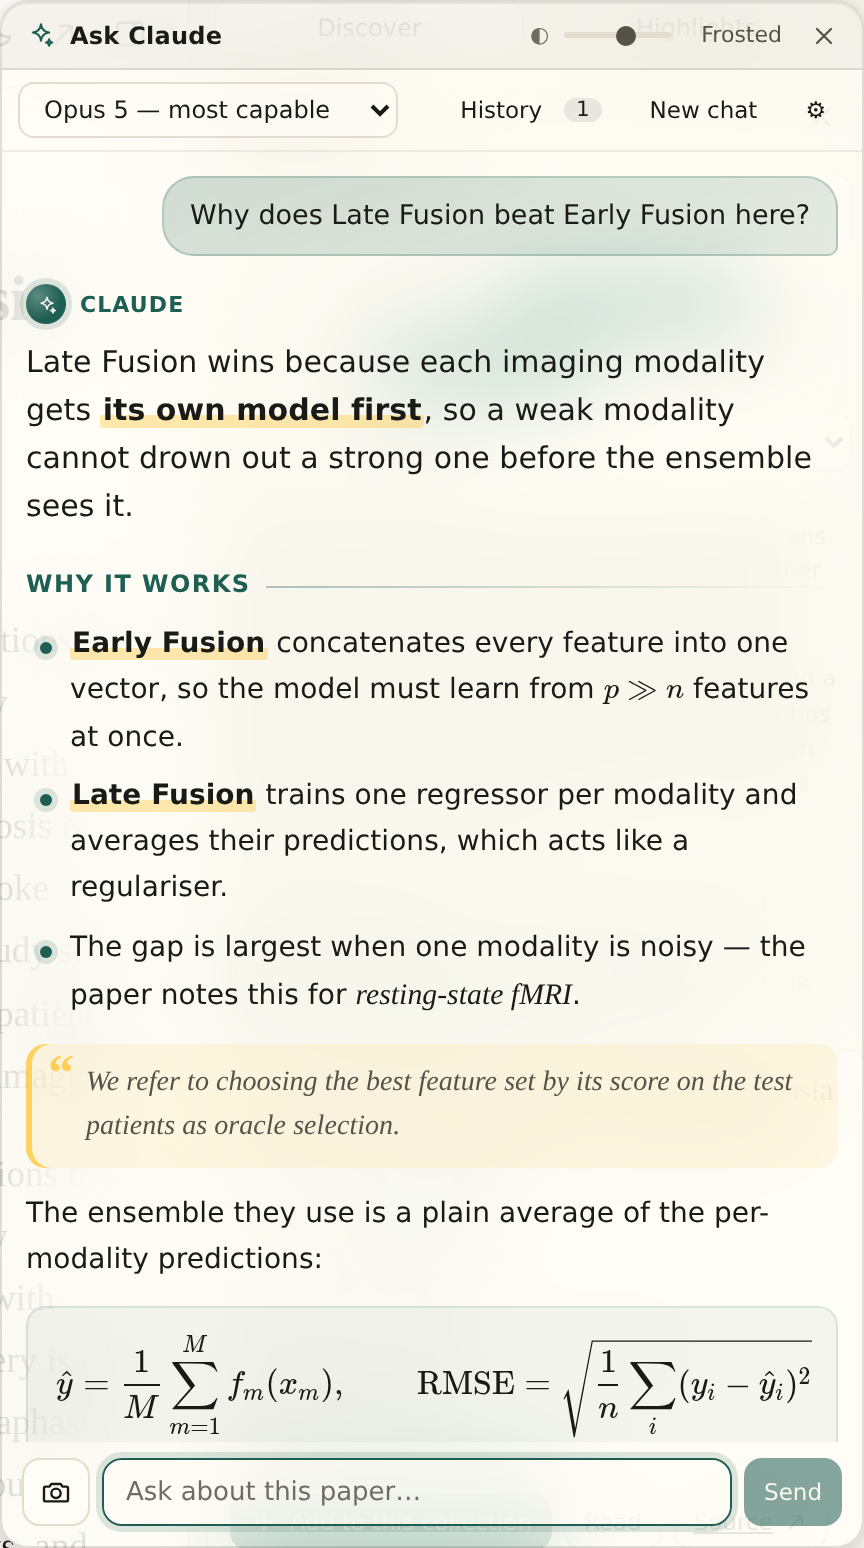
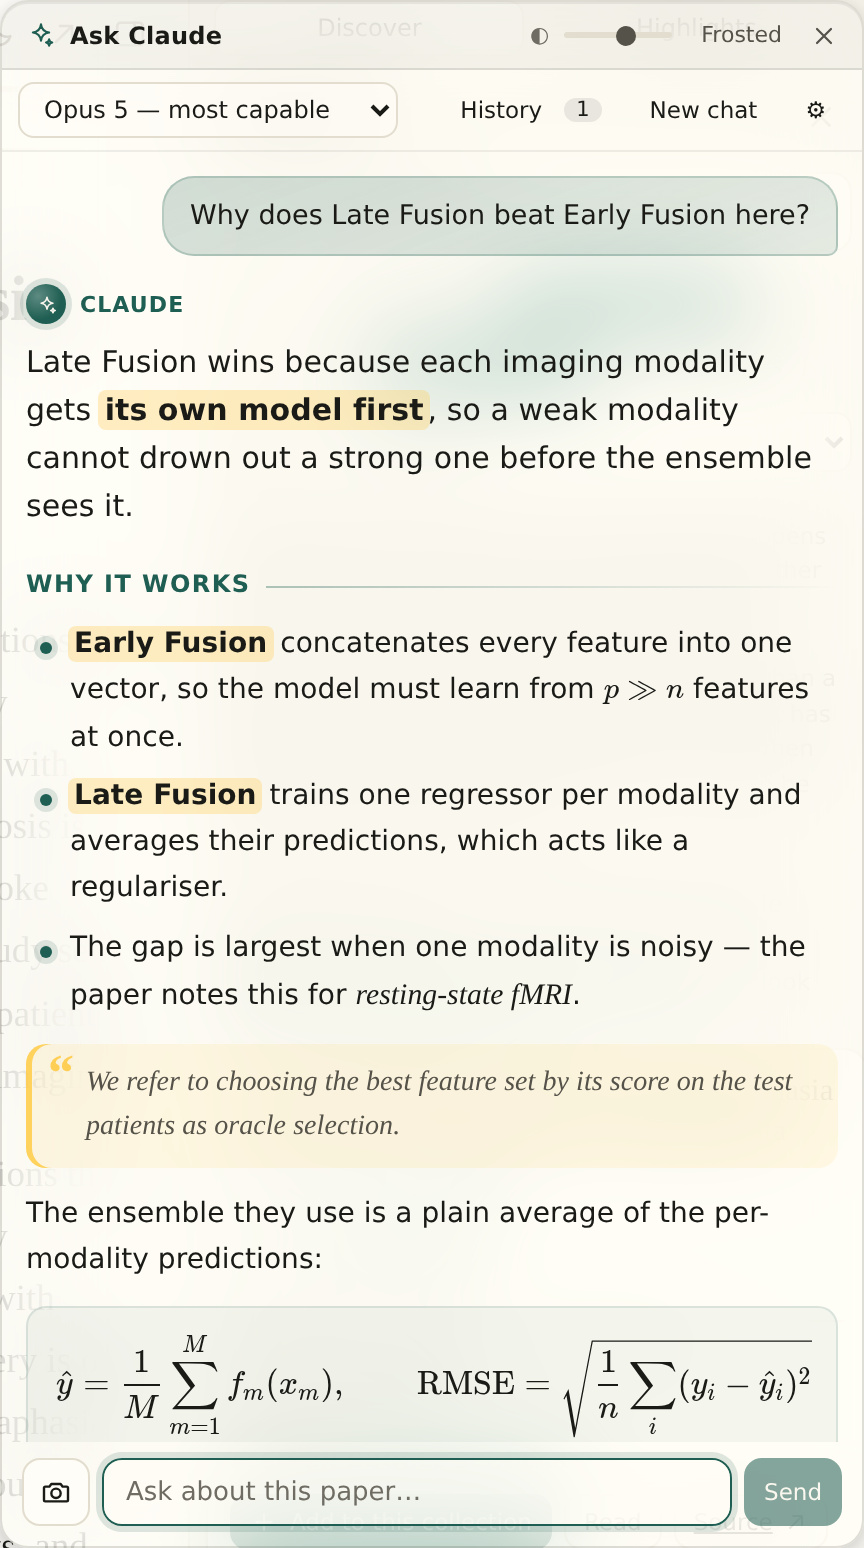
Ask Claude: mark bold and passage links in full, and let a link wrap
The marker on bold text and on links to passages covered only the lower
part of the letters, which read as a highlight that had stopped half way.
It is now the full height of the line, like the mark on the page, broken
cleanly across lines (box-decoration-break: clone).

A link to a passage was a <button>, which a browser never breaks across
lines: a long phrase dropped to a line of its own and left the line before
it short. It is now an <a href="#passage-N">, marked rather than underlined,
and flows with the text. locate-smoke checks that it starts on the line of
the words before it.

Claude-Session: https://claude.ai/code/session_01JRvxerTSNWCdTXjyRBgBbC

Changed region(s): [[0.0625, 0.4961, 0.9375, 0.5271], [0.0625, 0.4031, 0.9062, 0.4341], [0.0938, 0.2481, 0.8438, 0.2791]]

diff --git a/src/styles.css b/src/styles.css
@@ -2931,18 +2931,20 @@ body.win-moving .assistant-win { transition: none; }
 :root { --mark: 255 203 71; }
 :root[data-theme='dark'] { --mark: 246 214 102; }
 .chat-passage {
-  display: inline; padding: 0 2px; margin: 0; border: 0; border-radius: 3px; cursor: pointer;
-  font: inherit; color: inherit; text-align: inherit;
-  background: linear-gradient(transparent 52%, rgb(var(--mark) / 0.5) 52%);
+  padding: 1px 3px; margin: 0 -1px; border-radius: 4px; cursor: pointer;
+  color: var(--ink); text-decoration: none;
+  background: rgb(var(--mark) / 0.45);
+  -webkit-box-decoration-break: clone; box-decoration-break: clone;
   transition: background 0.2s;
 }
 .chat-passage::after {
   content: attr(data-passage);
-  display: inline-grid; place-items: center; min-width: 15px; height: 15px; margin-left: 4px; padding: 0 3px;
+  display: inline-grid; place-items: center; min-width: 15px; height: 15px; margin-left: 5px; padding: 0 3px;
   border-radius: 8px; vertical-align: 1px;
   font: 700 9.5px/1 var(--sans); color: var(--accent-on); background: var(--accent);
 }
-.chat-passage:hover { background: rgb(var(--mark) / 0.55); }
+.chat-passage:hover { background: rgb(var(--mark) / 0.65); color: var(--ink); }
+.chat-passage:focus-visible { outline: 2px solid var(--accent); outline-offset: 1px; }
 
 .chat-passages {
   margin: 12px 0 6px; border-radius: 14px; overflow: hidden;
@@ -3010,8 +3012,8 @@ body.win-moving .assistant-win { transition: none; }
 :root[data-theme='dark'] .look-marker .passage-band {
   mix-blend-mode: normal; background: rgb(var(--mark) / 0.2); box-shadow: inset 0 -2px 0 rgb(var(--mark) / 0.75);
 }
-:root[data-theme='dark'] .chat-passage { background: linear-gradient(transparent 52%, rgb(var(--mark) / 0.22) 52%); }
-:root[data-theme='dark'] .chat-passage:hover { background: rgb(var(--mark) / 0.22); }
+:root[data-theme='dark'] .chat-passage { background: rgb(var(--mark) / 0.2); }
+:root[data-theme='dark'] .chat-passage:hover { background: rgb(var(--mark) / 0.32); }
 @keyframes marker-sweep { from { transform: scaleX(0); } }
 @keyframes marker-breathe { 50% { filter: saturate(1.4) brightness(1.03); } }
 
@@ -3118,8 +3120,14 @@ body.win-moving .assistant-win { transition: none; }
 /* The first paragraph is the answer; what follows is the reasoning behind it. */
 .chat-claude .chat-text > p:first-child { font-size: 15px; line-height: 1.6; }
 .chat-claude .chat-text p { margin: 0 0 11px; }
-.chat-claude .chat-text strong { font-weight: 650; color: var(--ink); background: linear-gradient(transparent 64%, rgb(var(--mark) / 0.42) 64%); padding: 0 1px; border-radius: 2px; }
-:root[data-theme='dark'] .chat-claude .chat-text strong { background: linear-gradient(transparent 70%, rgb(var(--mark) / 0.28) 70%); }
+.chat-claude .chat-text strong {
+  font-weight: 650; color: var(--ink); padding: 1px 3px; margin: 0 -1px; border-radius: 4px;
+  background: rgb(var(--mark) / 0.3);
+  -webkit-box-decoration-break: clone; box-decoration-break: clone;
+}
+:root[data-theme='dark'] .chat-claude .chat-text strong { background: rgb(var(--mark) / 0.16); }
+/* A bold phrase inside a heading, a table head or a card is only bold. */
+.chat-claude .chat-text :is(h4, h5, h6, th) strong { background: none; padding: 0; margin: 0; }
 .chat-claude .chat-text em { font-family: var(--serif); font-size: 1.06em; }
 .chat-claude .chat-text a { color: var(--accent); text-decoration: underline; text-decoration-color: rgb(var(--accent-rgb) / 0.4); text-underline-offset: 3px; }
 .chat-claude .chat-text a:hover { text-decoration-color: var(--accent); }
@@ -3201,3 +3209,5 @@ body.win-moving .assistant-win { transition: none; }
 .chat-thinking summary::-webkit-details-marker { display: none; }
 .chat-thinking summary::before { content: '›'; font-size: 13px; transition: rotate 0.15s; }
 .chat-thinking[open] summary::before { rotate: 90deg; }
+/* A passage link is marked, not underlined: the general link style is for links out of the app. */
+.chat-claude .chat-text a.chat-passage { color: var(--ink); text-decoration: none; }

diff --git a/src/lib/markdown.ts b/src/lib/markdown.ts
@@ -28,9 +28,11 @@ export function inline(src: string): string {
     `<a href="${url}" target="_blank" rel="noopener noreferrer">${text}</a>`,
   );
   // A passage of the open paper an answer points at, `[the words](passage:2)`:
-  // a button that scrolls the paper to the answer's second passage and marks it.
+  // a link that scrolls the paper to the answer's second passage and marks it.
   s = s.replace(/\[([^\]\n]+)\]\(passage:\s*(\d+)\)/g, (_, text: string, n: string) => {
-    codes.push(`<button type="button" class="chat-passage" data-passage="${n}">${text}</button>`);
+    // A link, not a button: a button is never broken across two lines, so a
+    // long phrase would leave the line before it short and start a line of its own.
+    codes.push(`<a class="chat-passage" href="#passage-${n}" data-passage="${n}">${text}</a>`);
     return `\u0000${codes.length - 1}\u0000`;
   });
   // A paper named in an answer, `[Name et al. 2021](paper:Its full title)`: the

diff --git a/src/components/Assistant.tsx b/src/components/Assistant.tsx
@@ -395,7 +395,9 @@ function TurnView({ turn, index, actions, question }: { turn: Turn; index: numbe
           className="chat-text"
           onClick={(event) => {
             const link = (event.target as HTMLElement).closest<HTMLElement>('.chat-passage');
-            if (link) showAt(Number(link.dataset.passage) - 1);
+            if (!link) return;
+            event.preventDefault();
+            showAt(Number(link.dataset.passage) - 1);
           }}
           dangerouslySetInnerHTML={{ __html: DOMPurify.sanitize(markdown(text), { ADD_ATTR: ['target'] }) }} />
       ) : null}
